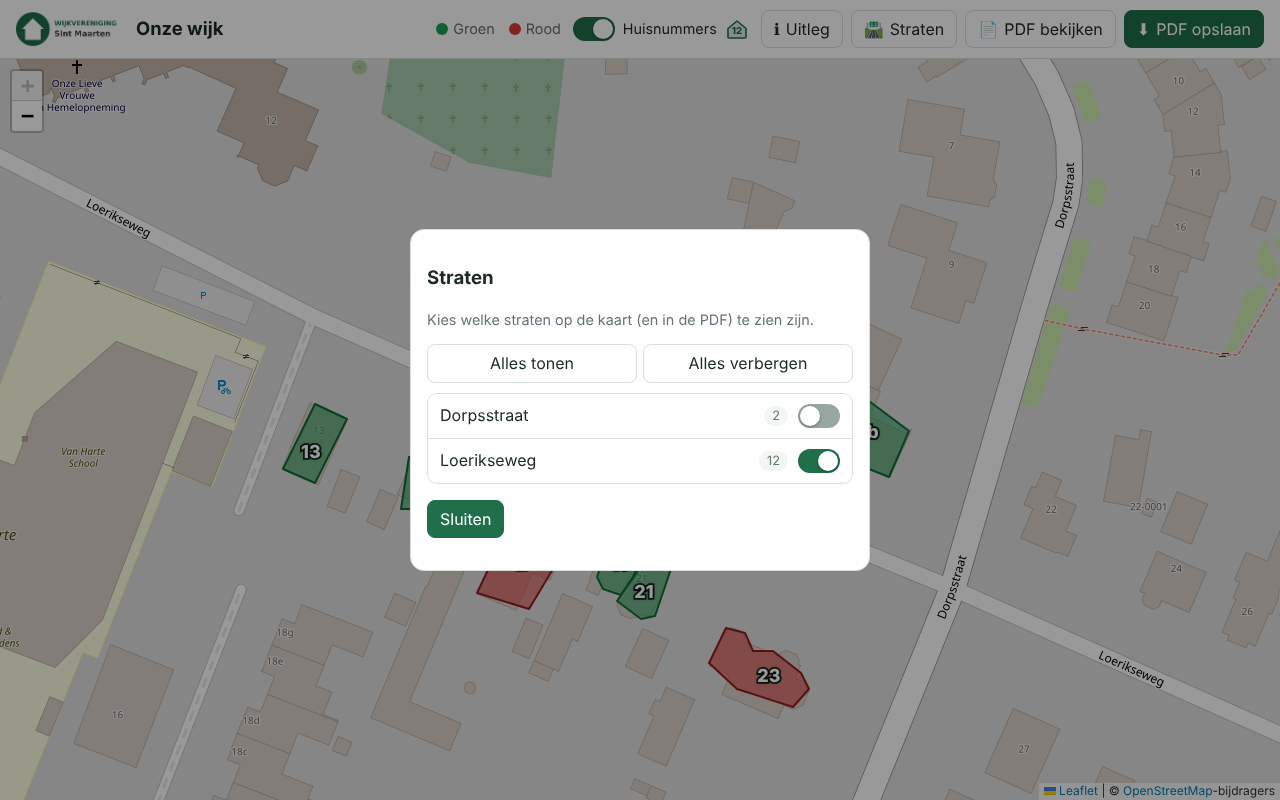
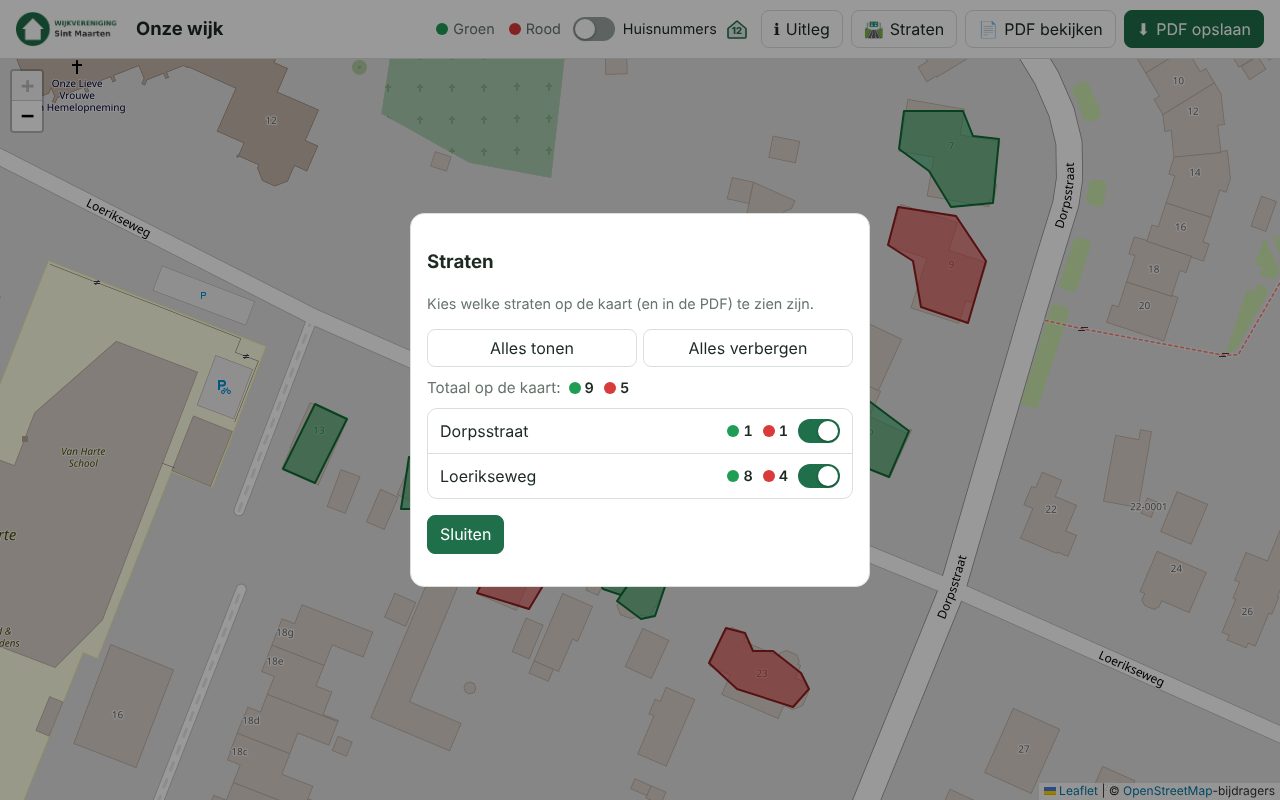
Straten-filter toont per straat en in totaal hoeveel huizen groen en rood zijn
Claude-Session: https://claude.ai/code/session_01RbVCVsqhcBjjeTGeb2Cmpu

diff --git a/public/js/public.js b/public/js/public.js
@@ -50,6 +50,26 @@
   const hidden = new Set();
   try { JSON.parse(localStorage.getItem('sm-hidden-streets') || '[]').forEach((x) => streets.includes(x) && hidden.add(x)); } catch {}
   const visibleHouses = () => shownHouses.filter((h) => !hidden.has(streetName(h)));
+  const tally = (list) => ({ green: list.filter((h) => h.status === 'green').length, red: list.filter((h) => h.status === 'red').length });
+  // "● 5 ● 2" met schermlezer-tekst
+  const tallyEl = (t, cls) => {
+    const el = document.createElement('span');
+    el.className = cls;
+    el.setAttribute('aria-label', `${t.green} groen, ${t.red} rood`);
+    for (const k of ['green', 'red']) {
+      const part = document.createElement('span');
+      part.setAttribute('aria-hidden', 'true');
+      const dot = document.createElement('i'); dot.className = `dot ${k}`;
+      part.append(dot, String(t[k]));
+      el.append(part);
+    }
+    return el;
+  };
+  const renderTotal = () => {
+    const box = $('streets-total');
+    if (!box) return;
+    box.replaceChildren('Totaal op de kaart: ', tallyEl(tally(visibleHouses()), 'street-tally'));
+  };
 
   const nums = Wijk.createNumberLayer(map);
   function applyStreets() {
@@ -60,6 +80,7 @@
       if (!show && map.hasLayer(poly)) { poly.closePopup(); map.removeLayer(poly); }
     }
     nums.rebuild(visibleHouses());
+    renderTotal();
     try { localStorage.setItem('sm-hidden-streets', JSON.stringify([...hidden])); } catch {}
   }
 
@@ -68,7 +89,7 @@
     const list = $('streets-list');
     const rows = new Map();
     for (const name of streets) {
-      const count = shownHouses.filter((h) => streetName(h) === name).length;
+      const t = tally(shownHouses.filter((h) => streetName(h) === name));
       const row = document.createElement('label');
       row.className = 'street-row';
       const cb = document.createElement('input');
@@ -77,8 +98,7 @@
       const track = document.createElement('span'); track.className = 'track'; track.setAttribute('aria-hidden', 'true');
       const thumb = document.createElement('span'); thumb.className = 'thumb'; track.append(thumb);
       const text = document.createElement('span'); text.className = 'street-name'; text.textContent = name || 'Overige huizen';
-      const n = document.createElement('span'); n.className = 'street-count'; n.textContent = `${count}`;
-      row.append(cb, track, text, n);
+      row.append(cb, track, text, tallyEl(t, 'street-tally'));
       list.append(row);
       rows.set(name, cb);
     }

diff --git a/public/css/style.css b/public/css/style.css
@@ -178,7 +178,10 @@ dialog { max-height: 92vh; overflow-y: auto; }
 .street-row input:checked + .track .thumb { transform: translateX(18px); }
 .street-row input:focus-visible + .track { outline: 3px solid color-mix(in srgb, var(--accent) 55%, transparent); outline-offset: 2px; }
 .street-name { flex: 1; }
-.street-count { order: 1; color: var(--muted); font-size: .8rem; background: var(--bg); border-radius: 999px; padding: 1px 8px; }
+.street-tally { order: 1; display: inline-flex; gap: 10px; font-size: .9rem; font-weight: 600; font-variant-numeric: tabular-nums; white-space: nowrap; }
+.street-tally .dot { margin-right: 4px; }
+.streets-total { display: flex; align-items: center; gap: 8px; margin: 10px 0 0; font-size: .95rem; color: var(--muted); }
+.streets-total .street-tally { color: var(--text); }
 .street-name { order: 0; }
 
 select { width: 100%; padding: 8px; border-radius: 8px; border: 1px solid var(--line); background: var(--bg); color: var(--text); font: inherit; }

diff --git a/public/index.html b/public/index.html
@@ -60,6 +60,7 @@
   <h3 id="streets-title">Straten</h3>
   <p class="muted">Kies welke straten op de kaart (en in de PDF) te zien zijn.</p>
   <div class="row"><button id="streets-all">Alles tonen</button><button id="streets-none">Alles verbergen</button></div>
+  <p id="streets-total" class="streets-total"></p>
   <div id="streets-list" class="streets-list"></div>
   <p><button id="streets-close" class="primary">Sluiten</button></p>
 </dialog>

diff --git a/README.md b/README.md
@@ -15,7 +15,7 @@ Voorbeeld met willekeurige huizen (kaartgegevens © OpenStreetMap-bijdragers).
 
 ![Mobiel](docs/screenshots/mobiel.png)
 
-**Straten** – met het straat-icoon (🛣) in de menubalk zet je per straat de huizen op de kaart (en in de PDF) aan of uit.
+**Straten** – met het straat-icoon (🛣) in de menubalk zet je per straat de huizen op de kaart (en in de PDF) aan of uit. Per straat staat hoeveel huizen **groen** en **rood** zijn, en bovenaan het totaal van de zichtbare straten.
 
 ![Straten](docs/screenshots/straten-popup.png)
 
